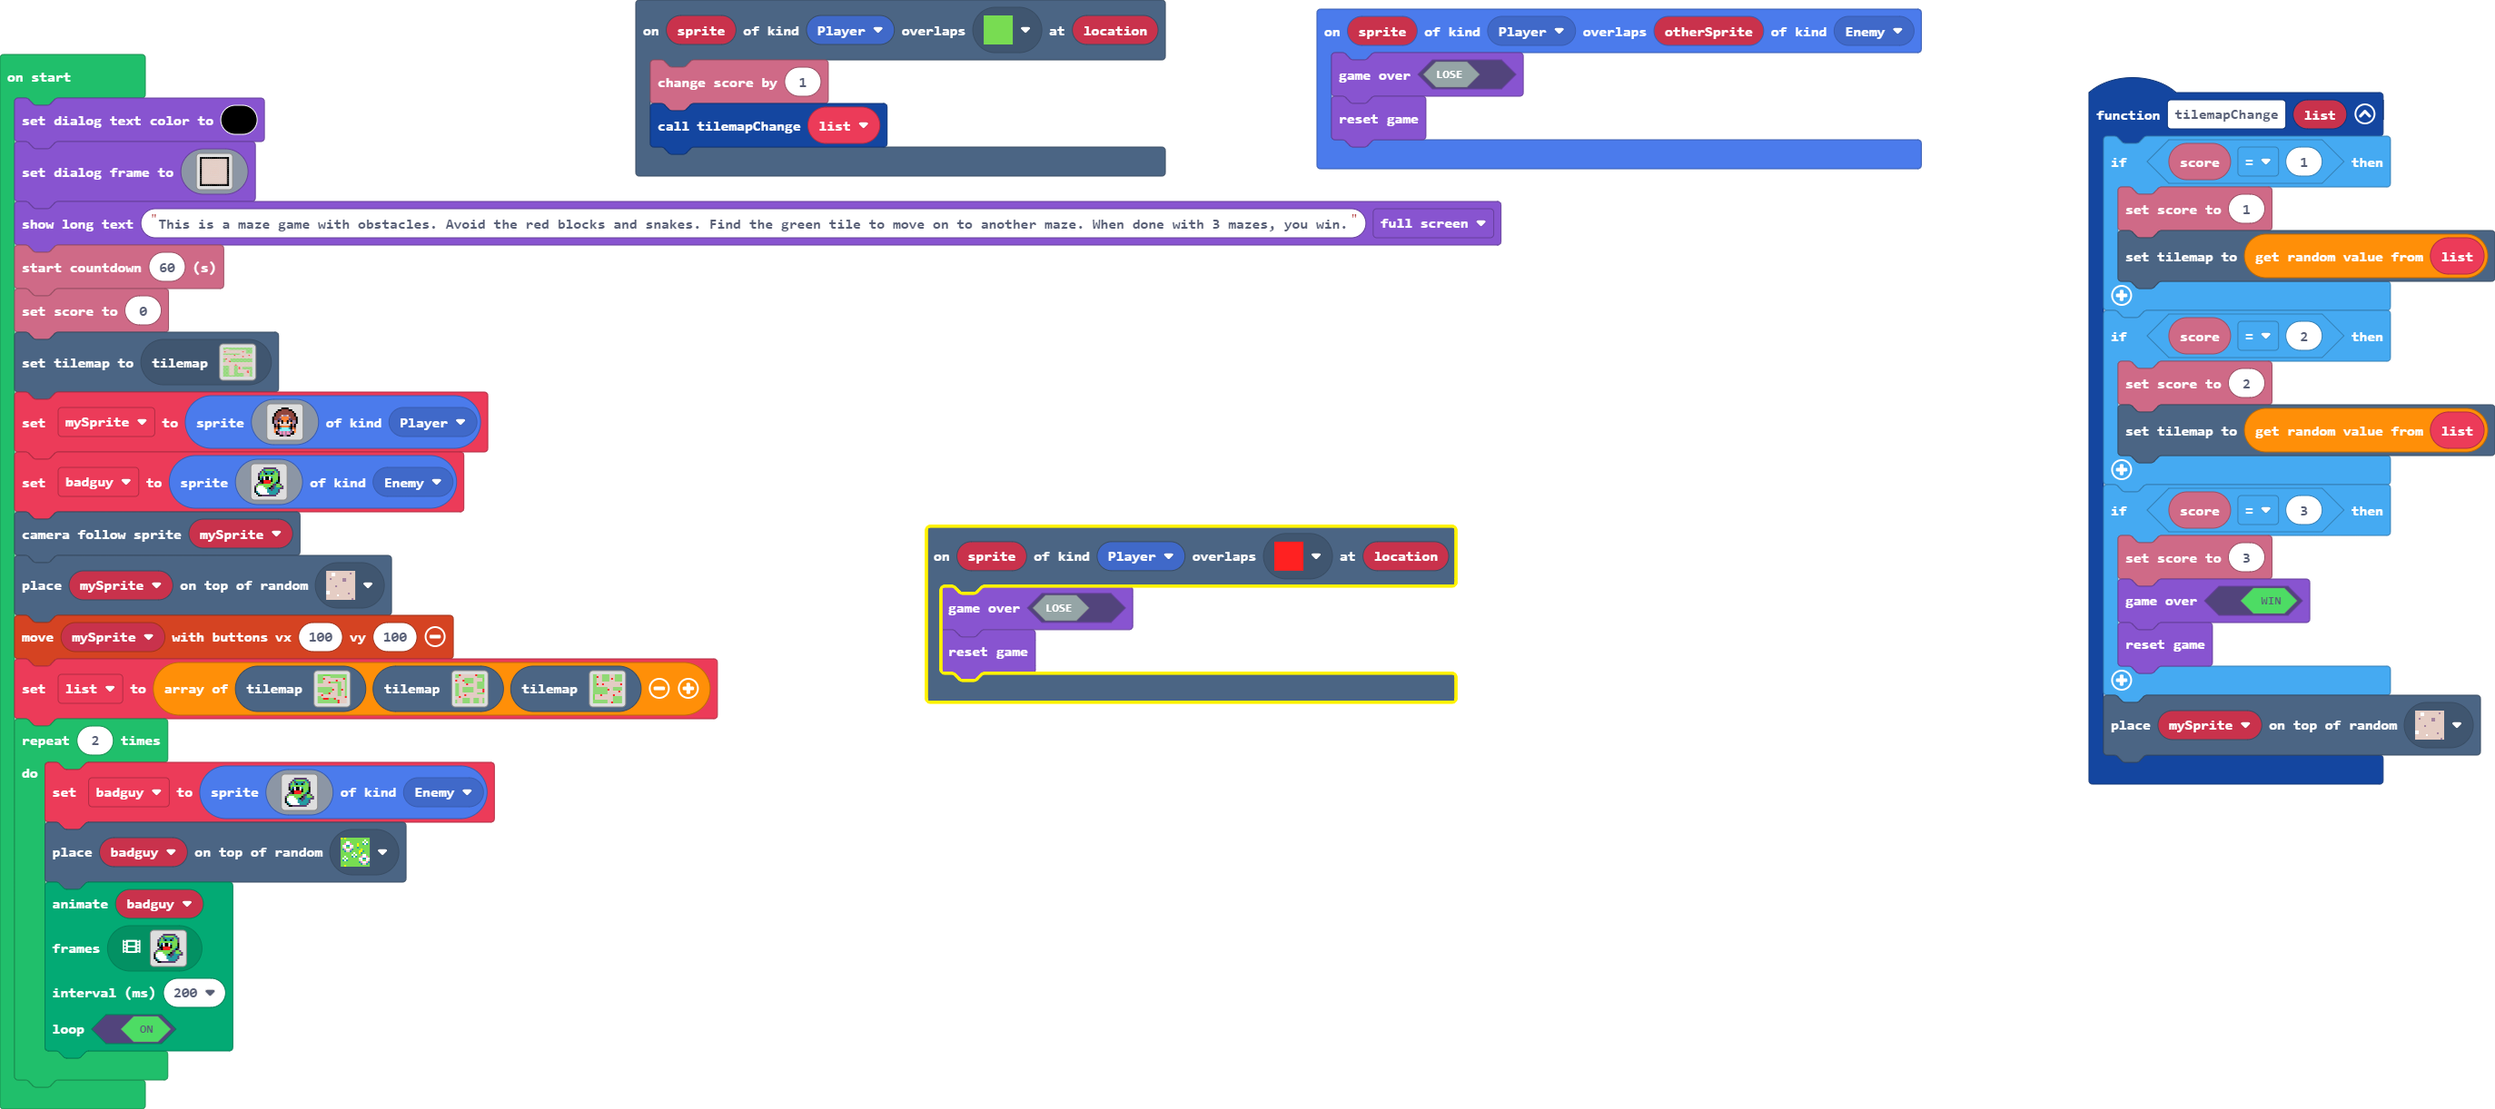
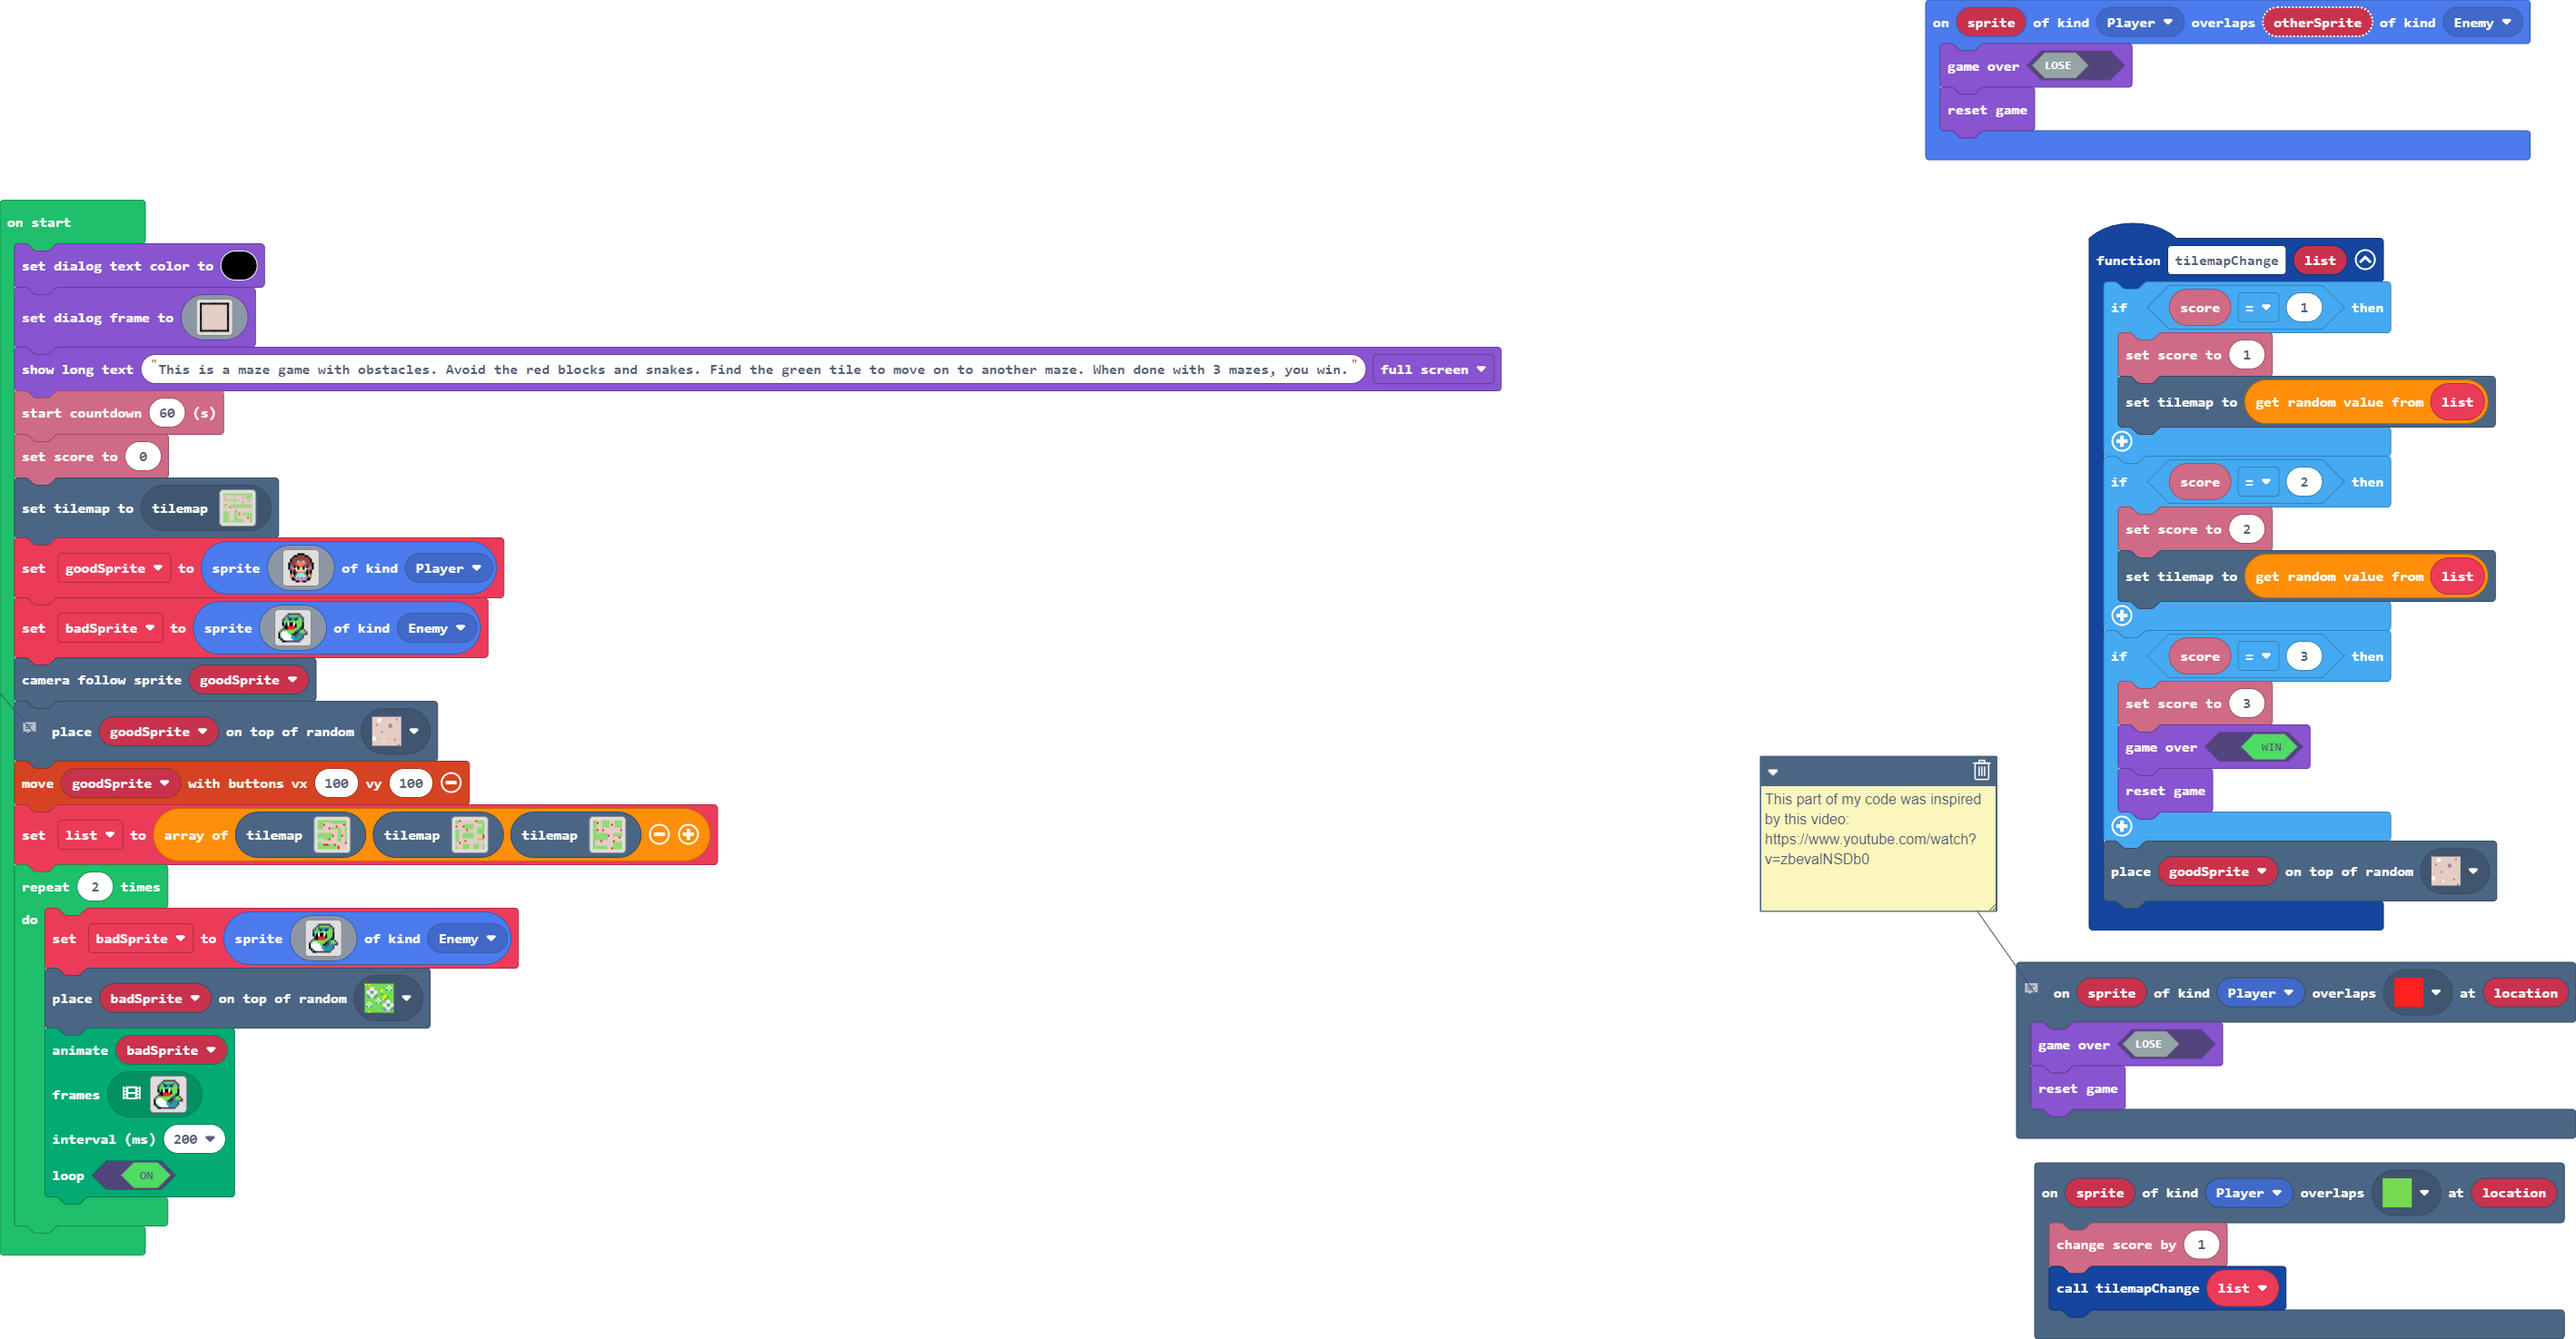
renamed some sprites

diff --git a/tilemap.g.ts b/tilemap.g.ts
@@ -200,25 +200,6 @@ namespace myTiles {
 2 . . . 2 2 2 2 . . 2 2 2 . . 2 
 2 . . . 2 2 2 2 . . 2 2 2 . . 2 
 `, [myTiles.transparency16,myTiles.tile1,myTiles.tile7,sprites.castle.tileGrass2,sprites.castle.tilePath5], TileScale.Sixteen);
-            case "level2":
-            case "level2":return tiles.createTilemap(hex`1000100004040403030303040404040404040404040404020202020404040404040404040404040102020202020202020202010404040402020202020202010202020204040404020202010404040404040202040202020202020202020202040402020402020202020202020202020404020204040404040404040402020204040202040404040404040404010202040401020404040404040404040202020404020204020202040404010202020204040202040202010202020202020202040402020404040202020202020202020202020201040404010101040404010202020202020404040404040404040404010202020204040404040404040404040102020202`, img`
-2 2 2 . . . . 2 2 2 2 2 2 2 2 2 
-2 2 2 . . . . 2 2 2 2 2 2 2 2 2 
-2 2 2 . . . . . . . . . . . . 2 
-2 2 2 . . . . . . . . . . . . 2 
-2 2 2 . . . . 2 2 2 2 2 2 . . 2 
-. . . . . . . . . . . 2 2 . . 2 
-. . . . . . . . . . . 2 2 . . 2 
-2 2 2 2 2 2 2 2 . . . 2 2 . . 2 
-2 2 2 2 2 2 2 2 . . . 2 2 . . 2 
-2 2 2 2 2 2 2 2 . . . 2 2 . . 2 
-. . . 2 2 2 . . . . . 2 2 . . 2 
-. . . . . . . . . . . 2 2 . . 2 
-2 2 . . . . . . . . . . . . . . 
-2 2 2 . . . 2 2 2 . . . . . . . 
-2 2 2 2 2 2 2 2 2 2 2 . . . . . 
-2 2 2 2 2 2 2 2 2 2 2 . . . . . 
-`, [myTiles.transparency16,myTiles.tile1,sprites.castle.tilePath5,myTiles.tile7,sprites.castle.tileGrass2], TileScale.Sixteen);
             case "level11":
             case "level11":return tiles.createTilemap(hex`1000100002020303030202020203030302020202020204030302020202030303020202020202030303020202020304030202020202020303030202020203030302020202020203030303030303030303030303030202040303040303030303030303030402020303030303030303030303030303020202020202020203030302020202020202020202020202040303020202020202020202020202020303030303030403020202020202020203030303030303030103030304030303030303040303030301030303030303030303030202020202010303030303030303030302020202020202020202020202030303020202020202020202020202020303040202020202`, img`
 2 2 . . . 2 2 2 2 . . . 2 2 2 2 
@@ -238,6 +219,101 @@ namespace myTiles {
 2 2 2 2 2 2 2 2 . . . 2 2 2 2 2 
 2 2 2 2 2 2 2 2 . . . 2 2 2 2 2 
 `, [myTiles.transparency16,myTiles.tile7,sprites.castle.tileGrass2,sprites.castle.tilePath5,myTiles.tile1], TileScale.Sixteen);
+            case "level12":
+            case "level12":return tiles.createTilemap(hex`1000100000000000000000000000000000000000000000000000000000000000000000000000000000000000000000000000000000000000000000000000000000000000000000000000000000000000000000000000000000000000000000000000000000000000000000000000000000000000000000000000000000000000000000000000000000000000000000000000000000000000000000000000000000000000000000000000000000000000000000000000000000000000000000000000000000000000000000000000000000000000000000000000000000000000000000000000000000000000000000000000000000000000000000000000000000000000`, img`
+. . . . . . . . . . . . . . . . 
+. . . . . . . . . . . . . . . . 
+. . . . . . . . . . . . . . . . 
+. . . . . . . . . . . . . . . . 
+. . . . . . . . . . . . . . . . 
+. . . . . . . . . . . . . . . . 
+. . . . . . . . . . . . . . . . 
+. . . . . . . . . . . . . . . . 
+. . . . . . . . . . . . . . . . 
+. . . . . . . . . . . . . . . . 
+. . . . . . . . . . . . . . . . 
+. . . . . . . . . . . . . . . . 
+. . . . . . . . . . . . . . . . 
+. . . . . . . . . . . . . . . . 
+. . . . . . . . . . . . . . . . 
+. . . . . . . . . . . . . . . . 
+`, [myTiles.transparency16], TileScale.Sixteen);
+            case "level13":
+            case "level13":return tiles.createTilemap(hex`1000100000000000000000000000000000000000000000000000000000000000000000000000000000000000000000000000000000000000000000000000000000000000000000000000000000000000000000000000000000000000000000000000000000000000000000000000000000000000000000000000000000000000000000000000000000000000000000000000000000000000000000000000000000000000000000000000000000000000000000000000000000000000000000000000000000000000000000000000000000000000000000000000000000000000000000000000000000000000000000000000000000000000000000000000000000000000`, img`
+. . . . . . . . . . . . . . . . 
+. . . . . . . . . . . . . . . . 
+. . . . . . . . . . . . . . . . 
+. . . . . . . . . . . . . . . . 
+. . . . . . . . . . . . . . . . 
+. . . . . . . . . . . . . . . . 
+. . . . . . . . . . . . . . . . 
+. . . . . . . . . . . . . . . . 
+. . . . . . . . . . . . . . . . 
+. . . . . . . . . . . . . . . . 
+. . . . . . . . . . . . . . . . 
+. . . . . . . . . . . . . . . . 
+. . . . . . . . . . . . . . . . 
+. . . . . . . . . . . . . . . . 
+. . . . . . . . . . . . . . . . 
+. . . . . . . . . . . . . . . . 
+`, [myTiles.transparency16], TileScale.Sixteen);
+            case "level14":
+            case "level14":return tiles.createTilemap(hex`1000100000000000000000000000000000000000000000000000000000000000000000000000000000000000000000000000000000000000000000000000000000000000000000000000000000000000000000000000000000000000000000000000000000000000000000000000000000000000000000000000000000000000000000000000000000000000000000000000000000000000000000000000000000000000000000000000000000000000000000000000000000000000000000000000000000000000000000000000000000000000000000000000000000000000000000000000000000000000000000000000000000000000000000000000000000000000`, img`
+. . . . . . . . . . . . . . . . 
+. . . . . . . . . . . . . . . . 
+. . . . . . . . . . . . . . . . 
+. . . . . . . . . . . . . . . . 
+. . . . . . . . . . . . . . . . 
+. . . . . . . . . . . . . . . . 
+. . . . . . . . . . . . . . . . 
+. . . . . . . . . . . . . . . . 
+. . . . . . . . . . . . . . . . 
+. . . . . . . . . . . . . . . . 
+. . . . . . . . . . . . . . . . 
+. . . . . . . . . . . . . . . . 
+. . . . . . . . . . . . . . . . 
+. . . . . . . . . . . . . . . . 
+. . . . . . . . . . . . . . . . 
+. . . . . . . . . . . . . . . . 
+`, [myTiles.transparency16], TileScale.Sixteen);
+            case "level15":
+            case "level15":return tiles.createTilemap(hex`1000100000000000000000000000000000000000000000000000000000000000000000000000000000000000000000000000000000000000000000000000000000000000000000000000000000000000000000000000000000000000000000000000000000000000000000000000000000000000000000000000000000000000000000000000000000000000000000000000000000000000000000000000000000000000000000000000000000000000000000000000000000000000000000000000000000000000000000000000000000000000000000000000000000000000000000000000000000000000000000000000000000000000000000000000000000000000`, img`
+. . . . . . . . . . . . . . . . 
+. . . . . . . . . . . . . . . . 
+. . . . . . . . . . . . . . . . 
+. . . . . . . . . . . . . . . . 
+. . . . . . . . . . . . . . . . 
+. . . . . . . . . . . . . . . . 
+. . . . . . . . . . . . . . . . 
+. . . . . . . . . . . . . . . . 
+. . . . . . . . . . . . . . . . 
+. . . . . . . . . . . . . . . . 
+. . . . . . . . . . . . . . . . 
+. . . . . . . . . . . . . . . . 
+. . . . . . . . . . . . . . . . 
+. . . . . . . . . . . . . . . . 
+. . . . . . . . . . . . . . . . 
+. . . . . . . . . . . . . . . . 
+`, [myTiles.transparency16], TileScale.Sixteen);
+            case "level2":
+            case "level2":return tiles.createTilemap(hex`1000100004040403030303040404040404040404040404020202020404040404040404040404040102020202020202020202010404040402020202020202010202020204040404020202010404040404040202040202020202020202020202040402020402020202020202020202020404020204040404040404040402020204040202040404040404040404010202040401020404040404040404040202020404020204020202040404010202020204040202040202020202020202020202040402020404040202020202020202020202020201040404010101040404010202020202020404040404040404040404010202020204040404040404040404040102020202`, img`
+2 2 2 . . . . 2 2 2 2 2 2 2 2 2 
+2 2 2 . . . . 2 2 2 2 2 2 2 2 2 
+2 2 2 . . . . . . . . . . . . 2 
+2 2 2 . . . . . . . . . . . . 2 
+2 2 2 . . . . 2 2 2 2 2 2 . . 2 
+. . . . . . . . . . . 2 2 . . 2 
+. . . . . . . . . . . 2 2 . . 2 
+2 2 2 2 2 2 2 2 . . . 2 2 . . 2 
+2 2 2 2 2 2 2 2 . . . 2 2 . . 2 
+2 2 2 2 2 2 2 2 . . . 2 2 . . 2 
+. . . 2 2 2 . . . . . 2 2 . . 2 
+. . . . . . . . . . . 2 2 . . 2 
+2 2 . . . . . . . . . . . . . . 
+2 2 2 . . . 2 2 2 . . . . . . . 
+2 2 2 2 2 2 2 2 2 2 2 . . . . . 
+2 2 2 2 2 2 2 2 2 2 2 . . . . . 
+`, [myTiles.transparency16,myTiles.tile1,sprites.castle.tilePath5,myTiles.tile7,sprites.castle.tileGrass2], TileScale.Sixteen);
         }
         return null;
     })

diff --git a/main.ts b/main.ts
@@ -1,3 +1,4 @@
+// This part of my code was inspired by this video: https://www.youtube.com/watch?v=zbevalNSDb0
 scene.onOverlapTile(SpriteKind.Player, assets.tile`myTile`, function (sprite, location) {
     game.gameOver(false)
     game.reset()
@@ -16,7 +17,7 @@ function tilemapChange (list: tiles.TileMapData[]) {
         game.gameOver(true)
         game.reset()
     }
-    tiles.placeOnRandomTile(mySprite, sprites.castle.tilePath5)
+    tiles.placeOnRandomTile(goodSprite, sprites.castle.tilePath5)
 }
 scene.onOverlapTile(SpriteKind.Player, assets.tile`myTile5`, function (sprite, location) {
     info.changeScoreBy(1)
@@ -27,7 +28,7 @@ sprites.onOverlap(SpriteKind.Player, SpriteKind.Enemy, function (sprite, otherSp
     game.reset()
 })
 let list: tiles.TileMapData[] = []
-let mySprite: Sprite = null
+let goodSprite: Sprite = null
 game.setDialogTextColor(15)
 game.setDialogFrame(img`
     f f f f f f f f f f f f f f f 
@@ -50,7 +51,7 @@ game.showLongText("This is a maze game with obstacles. Avoid the red blocks and 
 info.startCountdown(60)
 info.setScore(0)
 tiles.setCurrentTilemap(tilemap`level1`)
-mySprite = sprites.create(img`
+goodSprite = sprites.create(img`
     . . . . . f f f f . . . . . 
     . . . f f e e e e f f . . . 
     . . f e e e e e e e e f . . 
@@ -68,7 +69,7 @@ mySprite = sprites.create(img`
     . . f f 3 b 3 b 3 3 f f . . 
     . . . . f f b b f f . . . . 
     `, SpriteKind.Player)
-let badguy = sprites.create(img`
+let badSprite = sprites.create(img`
     . . . . . c c c c c c c . . . . 
     . . . . c 6 7 7 7 7 7 6 c . . . 
     . . . c 7 c 6 6 6 6 c 7 6 c . . 
@@ -86,12 +87,13 @@ let badguy = sprites.create(img`
     . f 6 1 1 1 1 1 6 6 6 6 c . . . 
     . . f f c c c c c c c c . . . . 
     `, SpriteKind.Enemy)
-scene.cameraFollowSprite(mySprite)
-tiles.placeOnRandomTile(mySprite, sprites.castle.tilePath5)
-controller.moveSprite(mySprite, 100, 100)
+scene.cameraFollowSprite(goodSprite)
+// This part of my code was inspired by this video: https://www.youtube.com/watch?v=zbevalNSDb0
+tiles.placeOnRandomTile(goodSprite, sprites.castle.tilePath5)
+controller.moveSprite(goodSprite, 100, 100)
 list = [tilemap`level2`, tilemap`level4`, tilemap`level11`]
 for (let index = 0; index < 2; index++) {
-    badguy = sprites.create(img`
+    badSprite = sprites.create(img`
         . . . . . c c c c c c c . . . . 
         . . . . c 6 7 7 7 7 7 6 c . . . 
         . . . c 7 c 6 6 6 6 c 7 6 c . . 
@@ -109,9 +111,9 @@ for (let index = 0; index < 2; index++) {
         . f 6 1 1 1 1 1 6 6 6 6 c . . . 
         . . f f c c c c c c c c . . . . 
         `, SpriteKind.Enemy)
-    tiles.placeOnRandomTile(badguy, sprites.castle.tileGrass2)
+    tiles.placeOnRandomTile(badSprite, sprites.castle.tileGrass2)
     animation.runImageAnimation(
-    badguy,
+    badSprite,
     [img`
         . . . . . c c c c c c c . . . . 
         . . . . c 6 7 7 7 7 7 6 c . . . 
